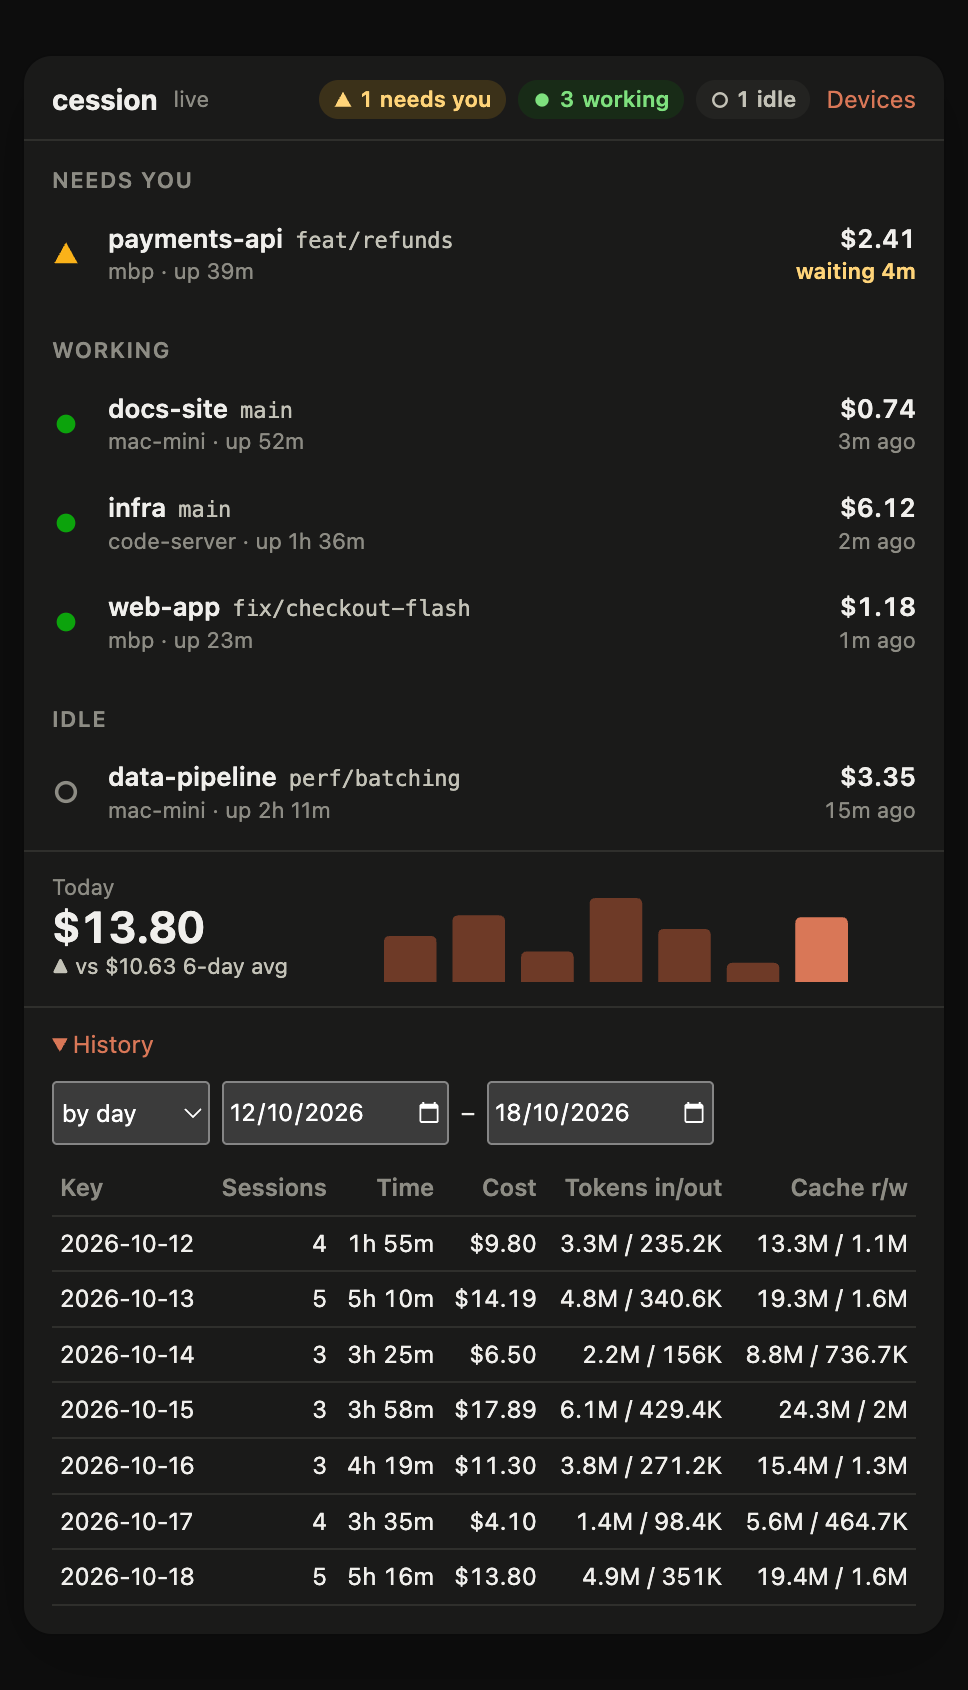
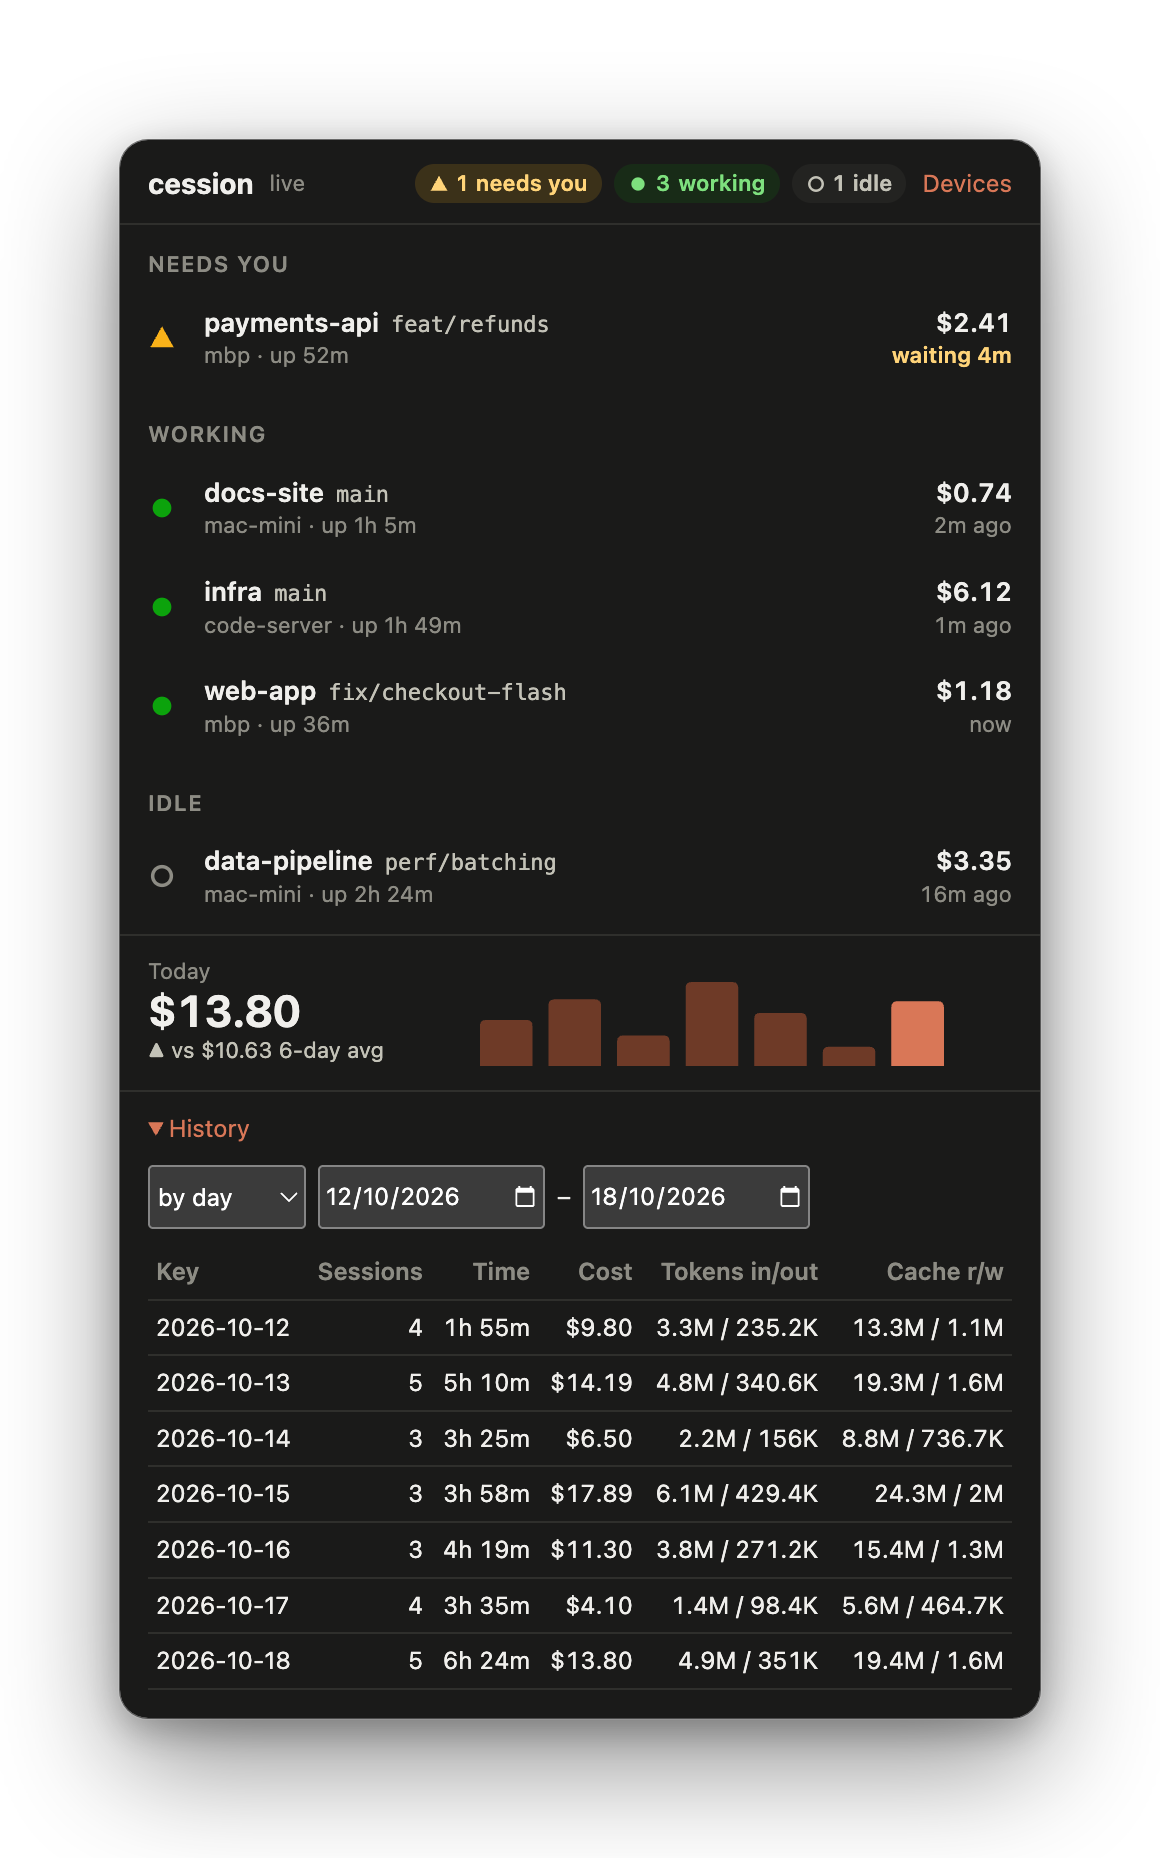
feat(dashboard): drop per-session cost from bar mode; framed README shots
Bar mode now shows only how long each session has run, waited or sat
idle; cost stays in the panel and in today's total. README screenshots
are retaken as macOS-style windows: the dashboard, and the widget bar
floating over desktop, VS Code and Slack mockups.

diff --git a/server/public/index.html b/server/public/index.html
@@ -182,11 +182,12 @@ function rowHtml(r, s) {
       </div>`;
 }
 
-// Bar mode's one-line summary per row: how long it has waited, run so far, or sat idle.
+// Bar mode's one-line summary per row: how long it has waited, run so far, or sat idle. Cost stays
+// in the panel; the bar only shows today's total.
 function barMeta(r) {
   if (r.status === "needs_you") return `waiting ${dur(Date.now() - (r.last_event || r.last_seen))}`;
   if (r.status === "idle") return `idle ${dur(Date.now() - (r.last_event || r.last_seen))}`;
-  return [r.started_at && dur(Date.now() - r.started_at), usd(r.cost_usd)].filter(Boolean).join(" · ");
+  return r.started_at ? dur(Date.now() - r.started_at) : "";
 }
 
 // Counts rows at least half cut off by the bar's right edge (or its fade), shown as "+N".

diff --git a/README.md b/README.md
@@ -3,7 +3,10 @@
 See every Claude Code session on all your machines in one place. For each session it shows the machine, project and branch, whether it's working, waiting on you or idle, and what it costs. It also keeps daily and per-project cost history.
 
 <p align="center">
-  <img src="docs/images/dashboard.png" width="420" alt="The cession dashboard: one session waiting for you, three working and one idle, each with its machine, branch, run time and cost; today's cost against a 7-day bar chart; and the daily history table.">
+  <img src="docs/images/dashboard.png" width="440" alt="The cession dashboard as a macOS window: one session waiting for you, three working and one idle, each with its machine, branch, run time and cost; today's cost against a 7-day bar chart; and the daily history table.">
+</p>
+<p align="center">
+  <img src="docs/images/widget.png" alt="The cession widget in bar mode floating over the desktop, VS Code and Slack: one line per session with how long it has run, waited or sat idle, and today's total cost, tinted amber while a session waits for you.">
 </p>
 
 ```
@@ -63,8 +66,6 @@ The hook needs `jq` and `curl`. To override the machine name, set `CESSION_MACHI
 
 ## macOS widget
 
-![The widget in bar mode: one line per session with its run time and cost, and today's total. The amber tint pulses while a session is waiting for you.](docs/images/widget-bar.png)
-
 Download the `.dmg` from the latest [widget release](https://github.com/underw8/cession/releases?q=widget) (Apple silicon), open it and drag **cession-widget** to Applications. The build isn't signed, so the first time, right-click the app in Applications and choose **Open**, then confirm. Or build it yourself:
 
 ```bash
@@ -74,7 +75,7 @@ cargo run
 
 - The widget has no Dock icon. Use the menu bar icon to show it, pair it with a server, reload it after a deploy (**Reload status**) or quit it.
 - Hover the widget to show its bar: drag ⠿ to move it, ↕ switches between the full panel and a thin bar, ⇥ sends it to the next display, ✕ hides it. Drag the bottom-right grip to resize.
-- In bar mode it shows one line per session with its run time and cost, and today's total; the bar pulses amber while a session is waiting for you.
+- In bar mode it shows one line per session with how long it has run, waited or sat idle, and today's total cost; the bar pulses amber while a session is waiting for you.
 - ⌘-drag anywhere also moves it.
 - Resize it from any edge or corner, or ⌥-drag anywhere to resize from the nearest corner.
 - Its size and position are remembered between launches.
